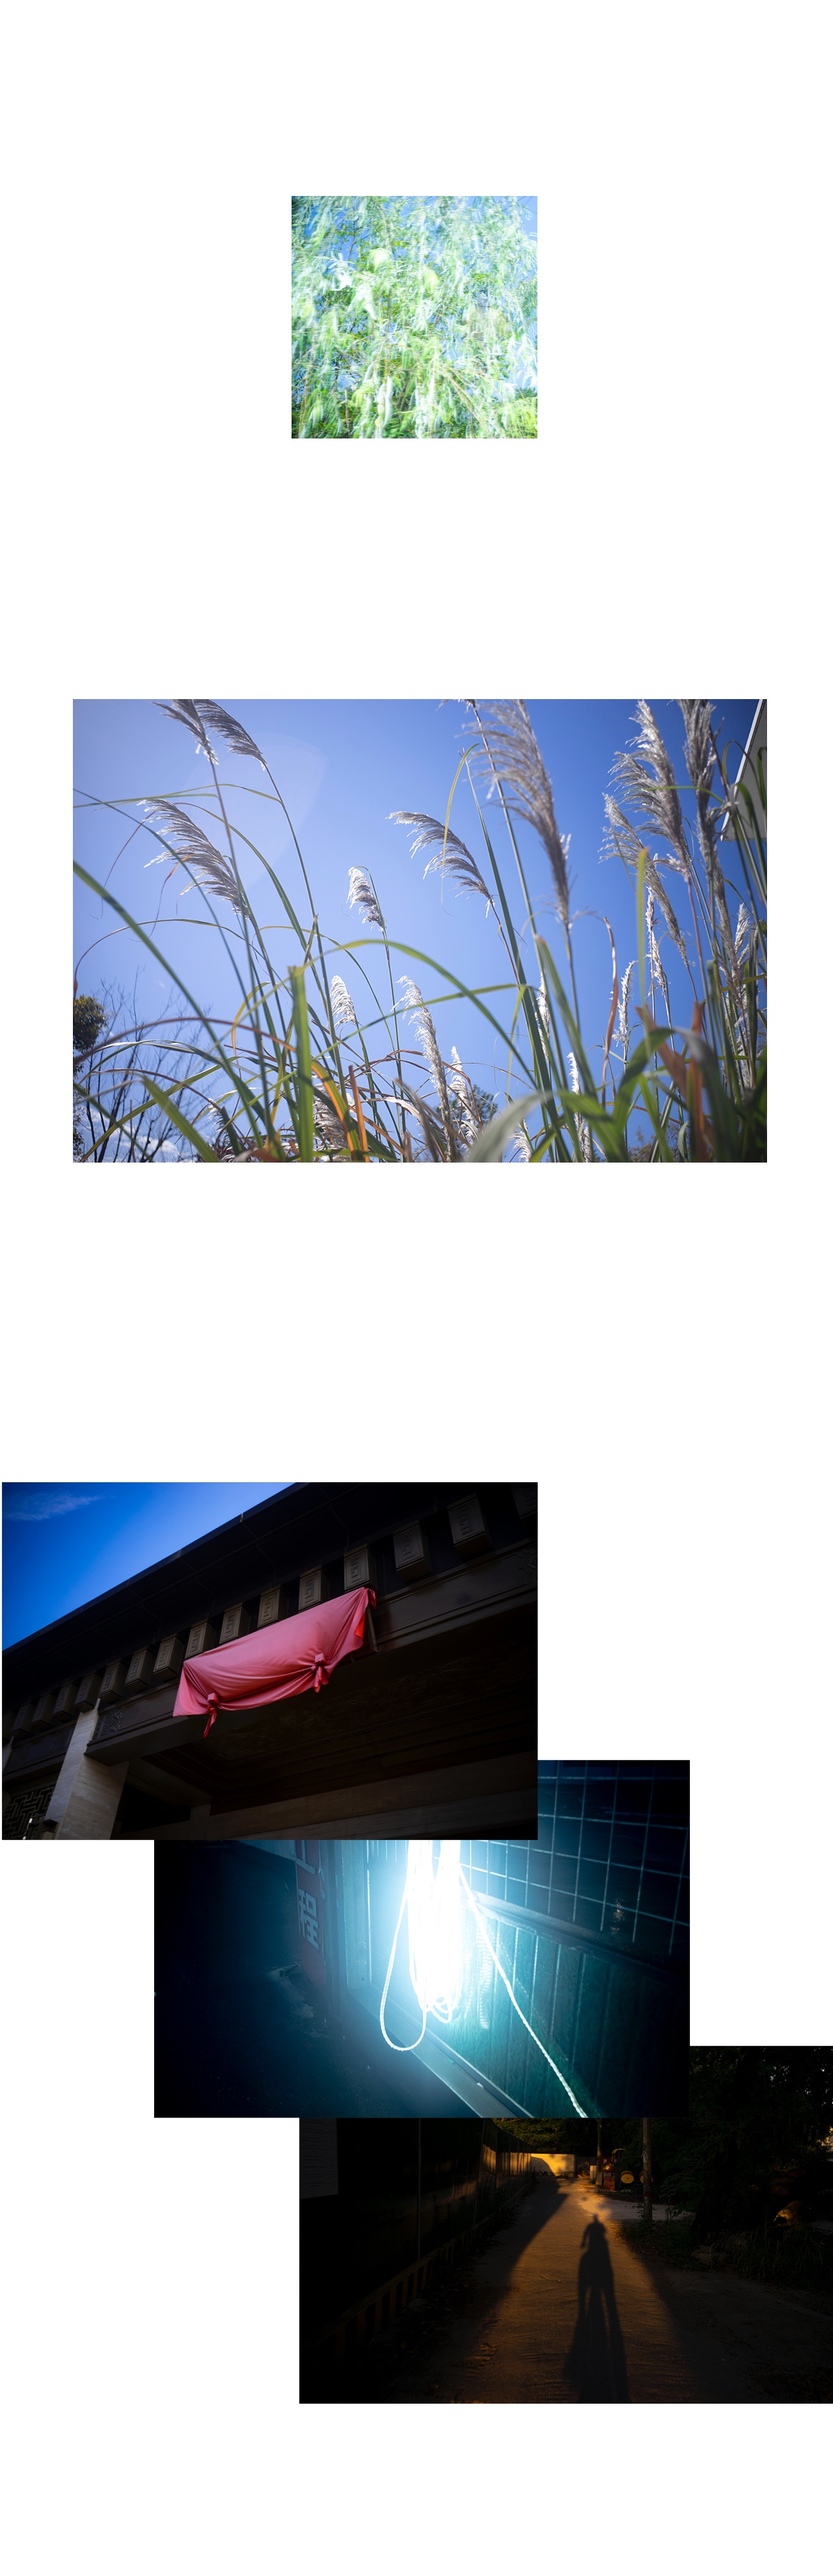
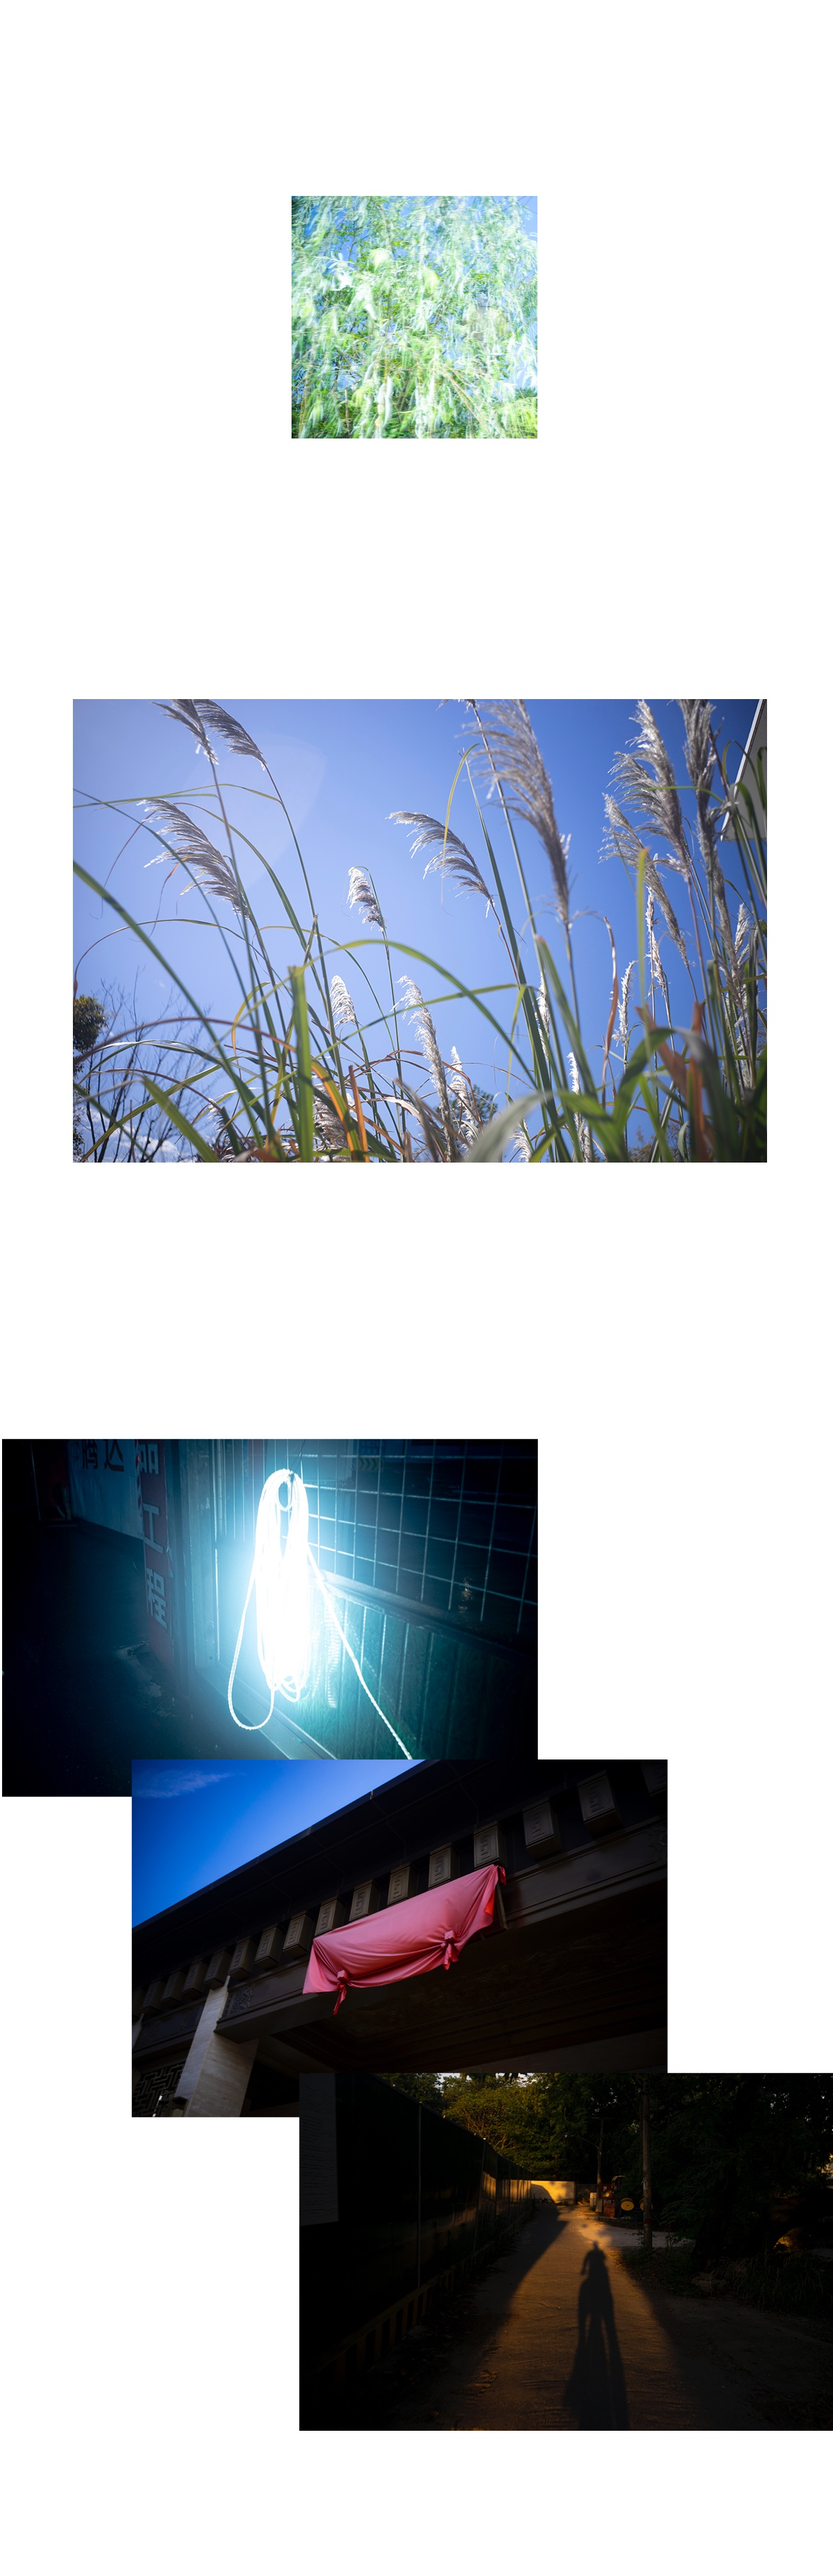
修改标题。

Changed region(s): [[0.0, 0.5584, 1.0, 0.9617]]

diff --git a/_posts/2022-01-08-在余杭.md b/_posts/2022-01-08-在余杭.md
@@ -1,7 +1,7 @@
 ---
 layout: post
-title: "是否那样的一天才是完整的"
-description: "我们闲聊，直到雾气上升"
+title: "在余杭"
+description: "是否那样的一天才是完整的"
 tags: [摄影]
 ---
 
